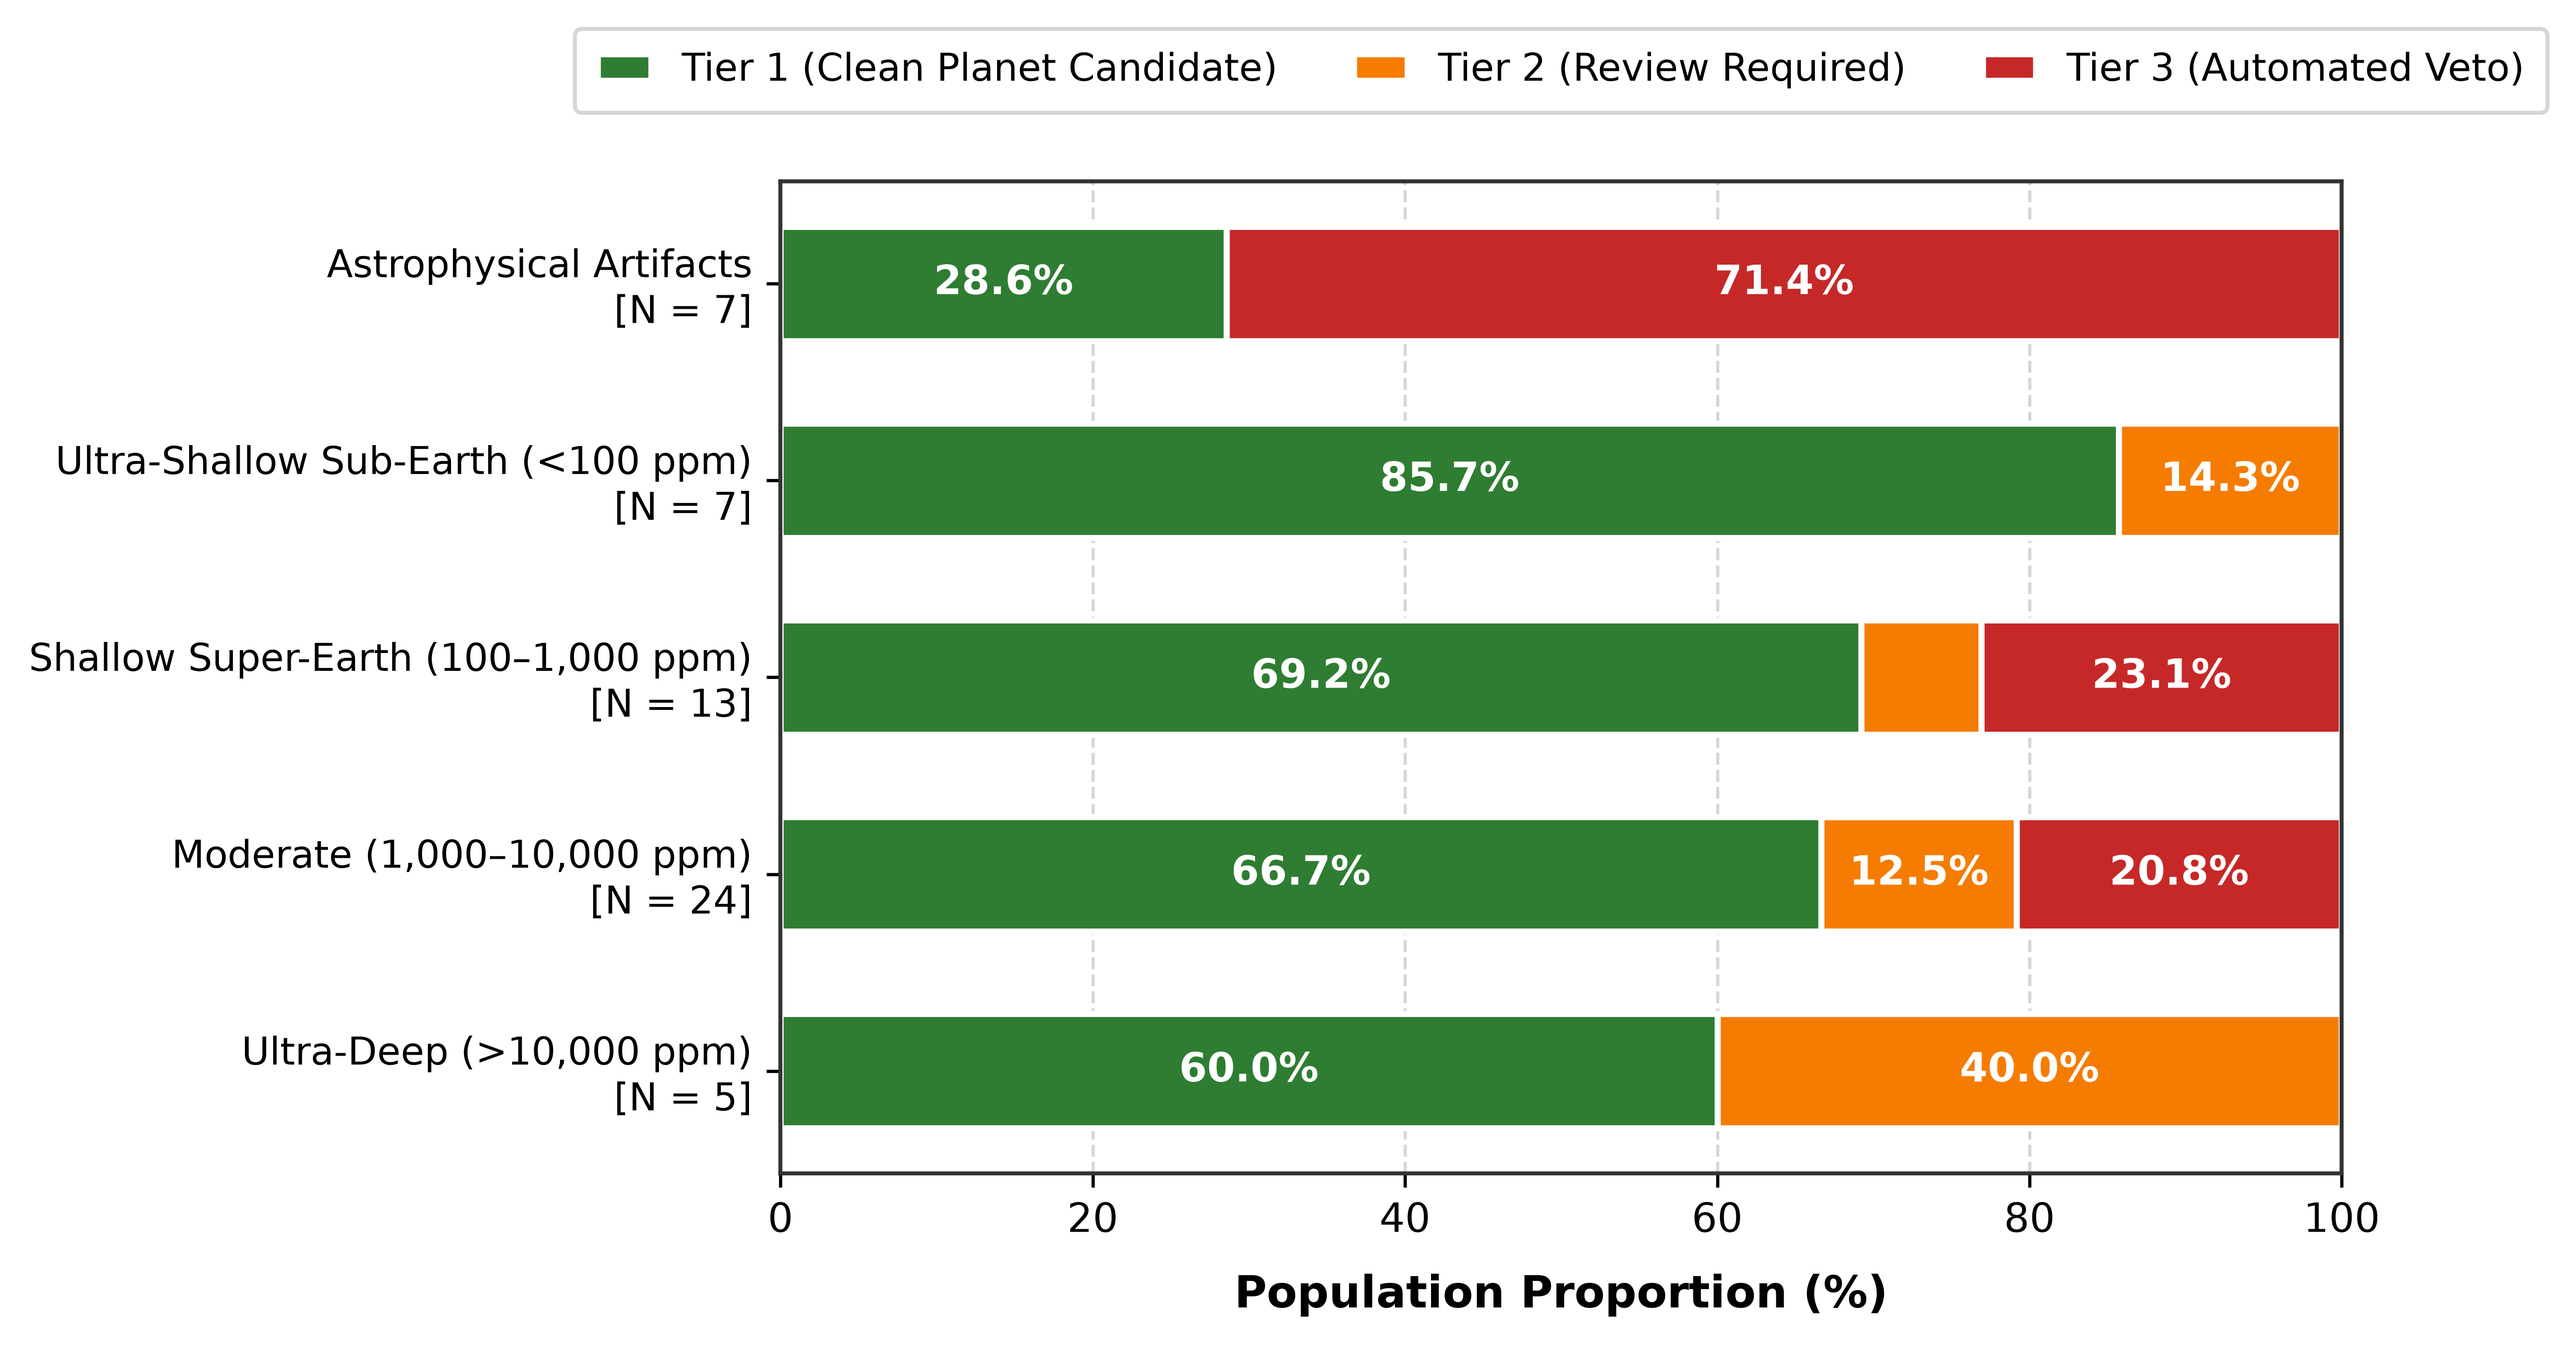
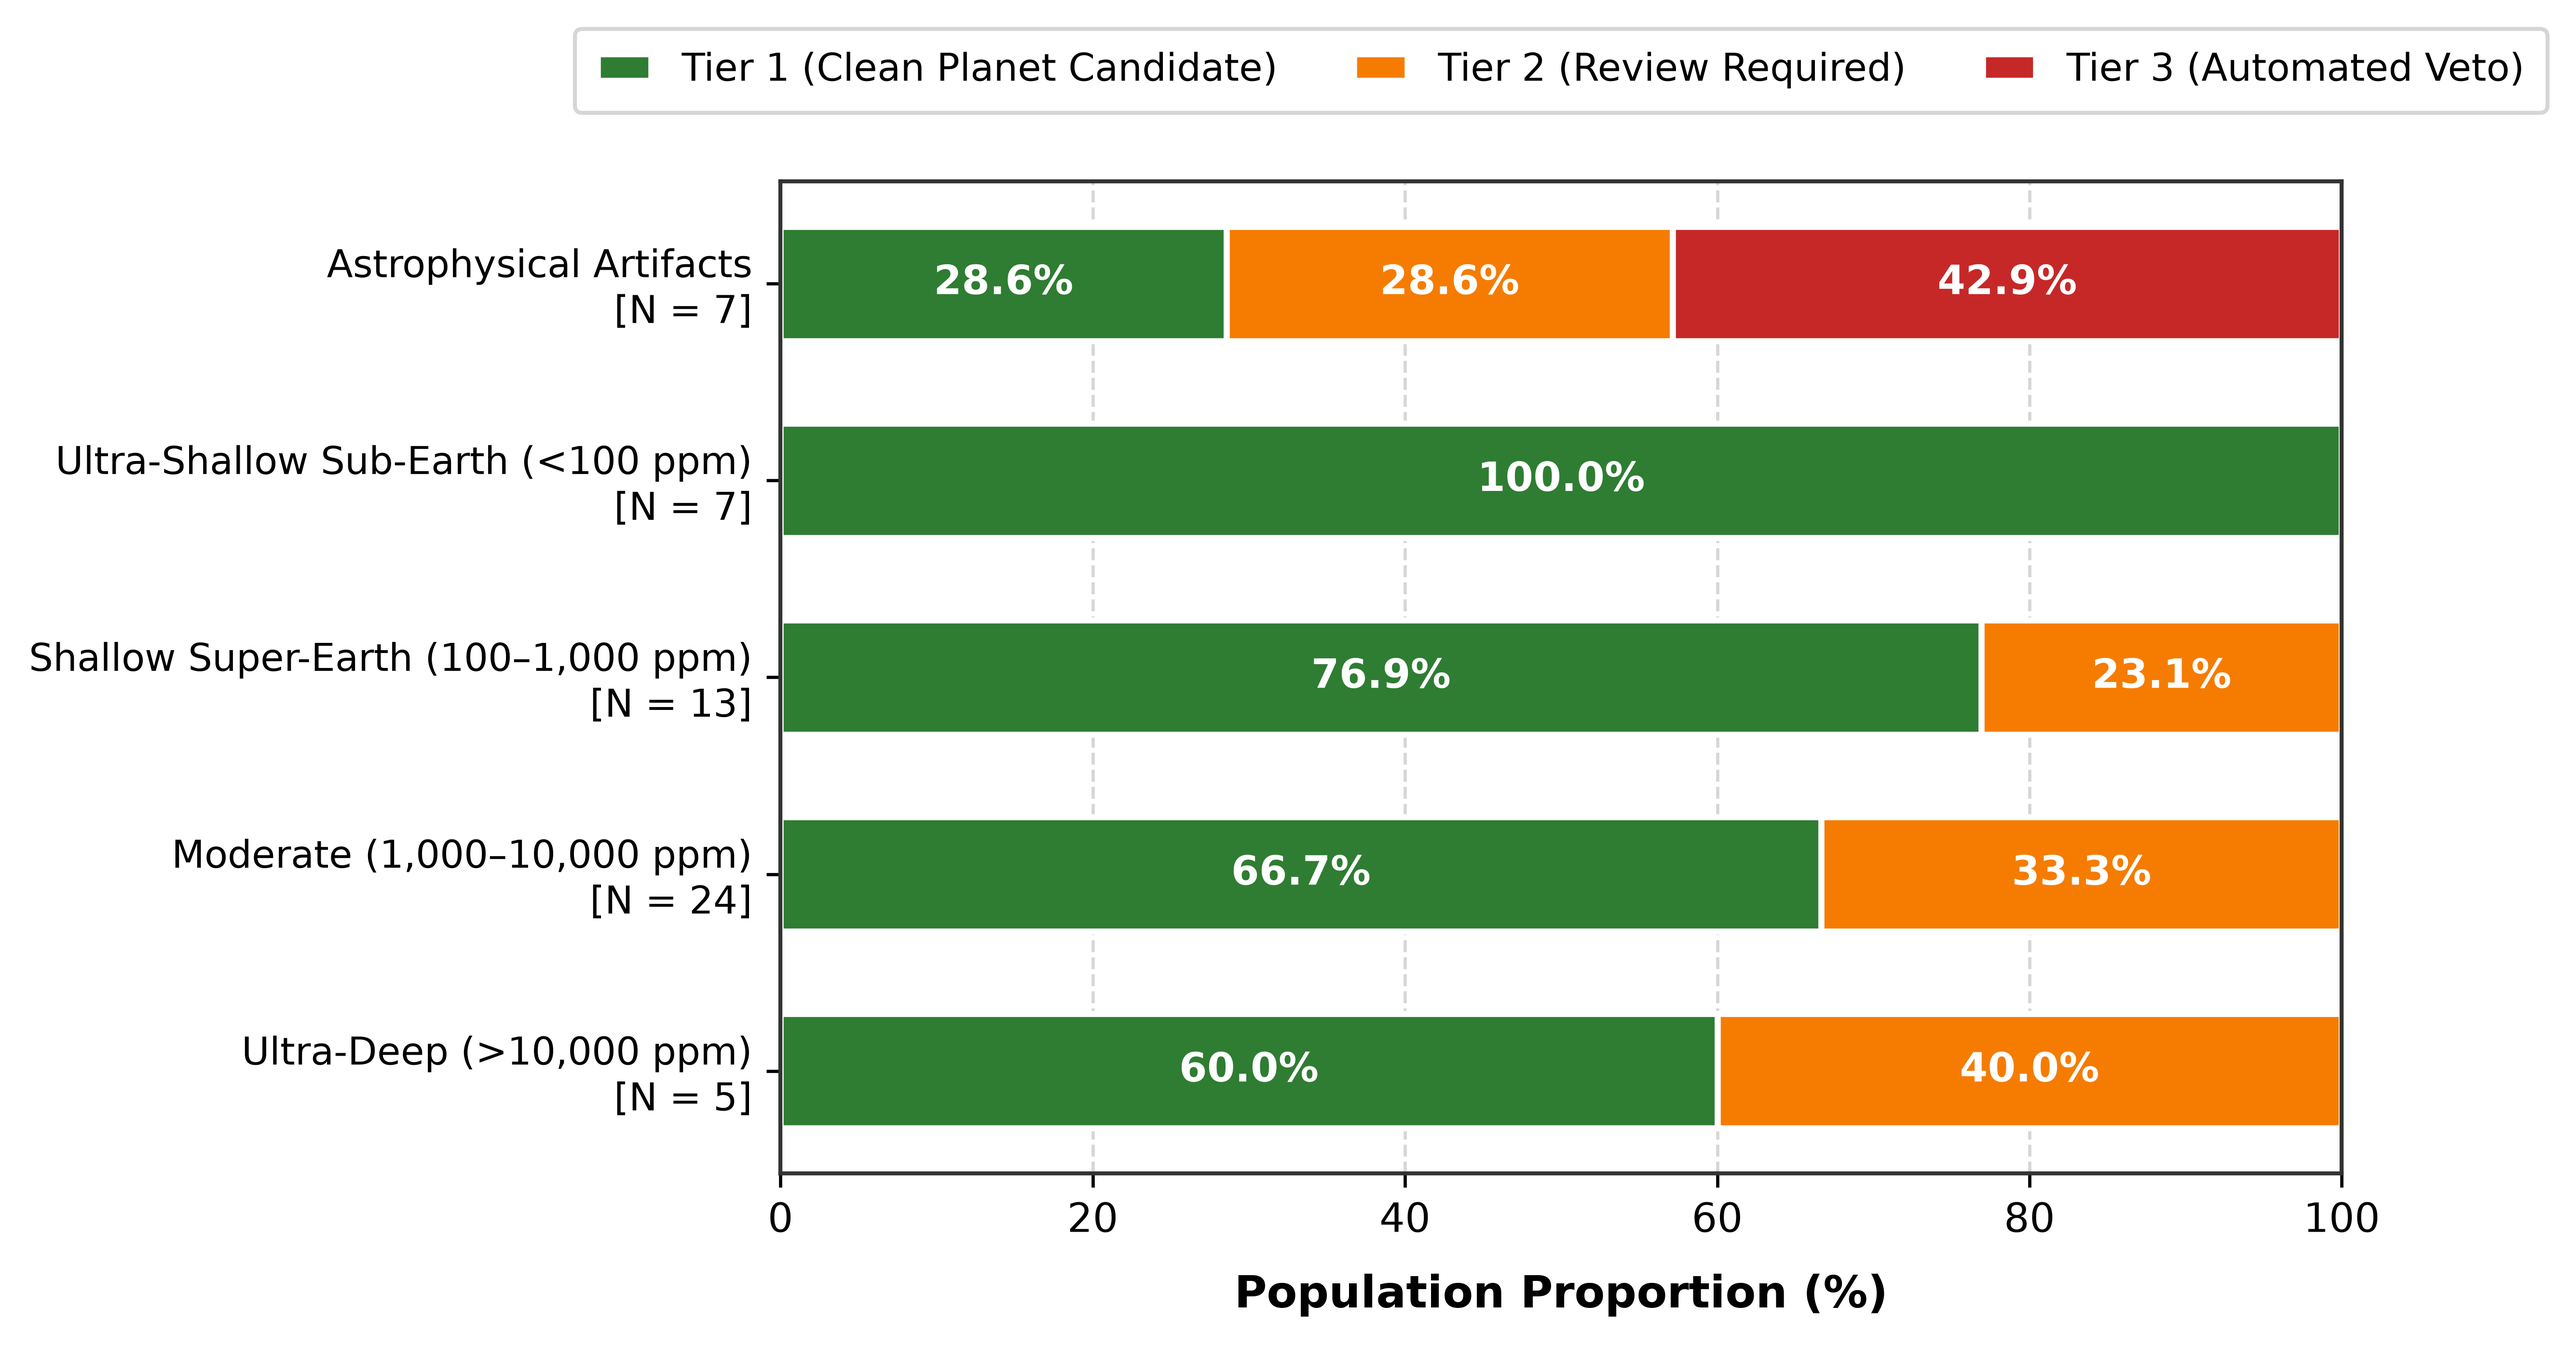
Calibrate operational vetting tiers and update benchmark results

diff --git a/src/vesta/core.py b/src/vesta/core.py
@@ -171,37 +171,21 @@ def calculate_vesta(f_norm, transit_mask, time=None, period=None, t0=None, snr_t
     }
 
 
-def get_calibrated_tier(penalty, n_in, n_out=1000, alpha_t1=0.05, alpha_t2=0.001):
+def get_calibrated_tier(penalty, n_in=100, n_out=1000, alpha_t1=0.05, alpha_t2=0.001):
     """
-    Assigns classification tier based on calibrated F-distribution percentiles.
-    
-    Under H0 (homoscedastic Gaussian noise), (s_in/s_out)^2 ~ F(n_in-1, n_out-1).
-    psi = |s_in/s_out - 1|. We determine critical psi values from the two-tailed F-quantiles.
+    Assigns operational classification tier based on calibrated thresholds
+    formalized in Section 2.5 of the manuscript:
+    - Tier 1 (Clean Candidate): P <= 0.15
+    - Tier 2 (Review Required): 0.15 < P <= 0.60
+    - Tier 3 (Automated Veto):   P > 0.60
     """
-    if n_in < 4:
-        return 'Excluded (N_in < 4)'
-
-    df1 = n_in - 1
-    df2 = max(n_out - 1, 100)
-
-    # Upper and lower quantiles for alpha_t1 (Tier 1 threshold)
-    f_hi_t1 = stats.f.ppf(1 - alpha_t1 / 2, df1, df2)
-    f_lo_t1 = stats.f.ppf(alpha_t1 / 2, df1, df2)
-    psi_crit_t1 = max(abs(np.sqrt(f_hi_t1) - 1.0), abs(np.sqrt(f_lo_t1) - 1.0))
-    p_crit_t1 = np.log(1.0 + psi_crit_t1)
-
-    # Upper and lower quantiles for alpha_t2 (Tier 2/3 veto threshold)
-    f_hi_t2 = stats.f.ppf(1 - alpha_t2 / 2, df1, df2)
-    f_lo_t2 = stats.f.ppf(alpha_t2 / 2, df1, df2)
-    psi_crit_t2 = max(abs(np.sqrt(f_hi_t2) - 1.0), abs(np.sqrt(f_lo_t2) - 1.0))
-    p_crit_t2 = np.log(1.0 + psi_crit_t2)
-
-    if penalty <= p_crit_t1:
+    if penalty <= 0.15:
         return 'Tier 1 (Clean)'
-    elif penalty <= p_crit_t2:
+    elif penalty <= 0.60:
         return 'Tier 2 (Review)'
     else:
         return 'Tier 3 (Veto)'
+
 
 
 def compute_baseline_metrics(f_norm, transit_mask, duration_hours=2.5, cadence_minutes=2.0):
